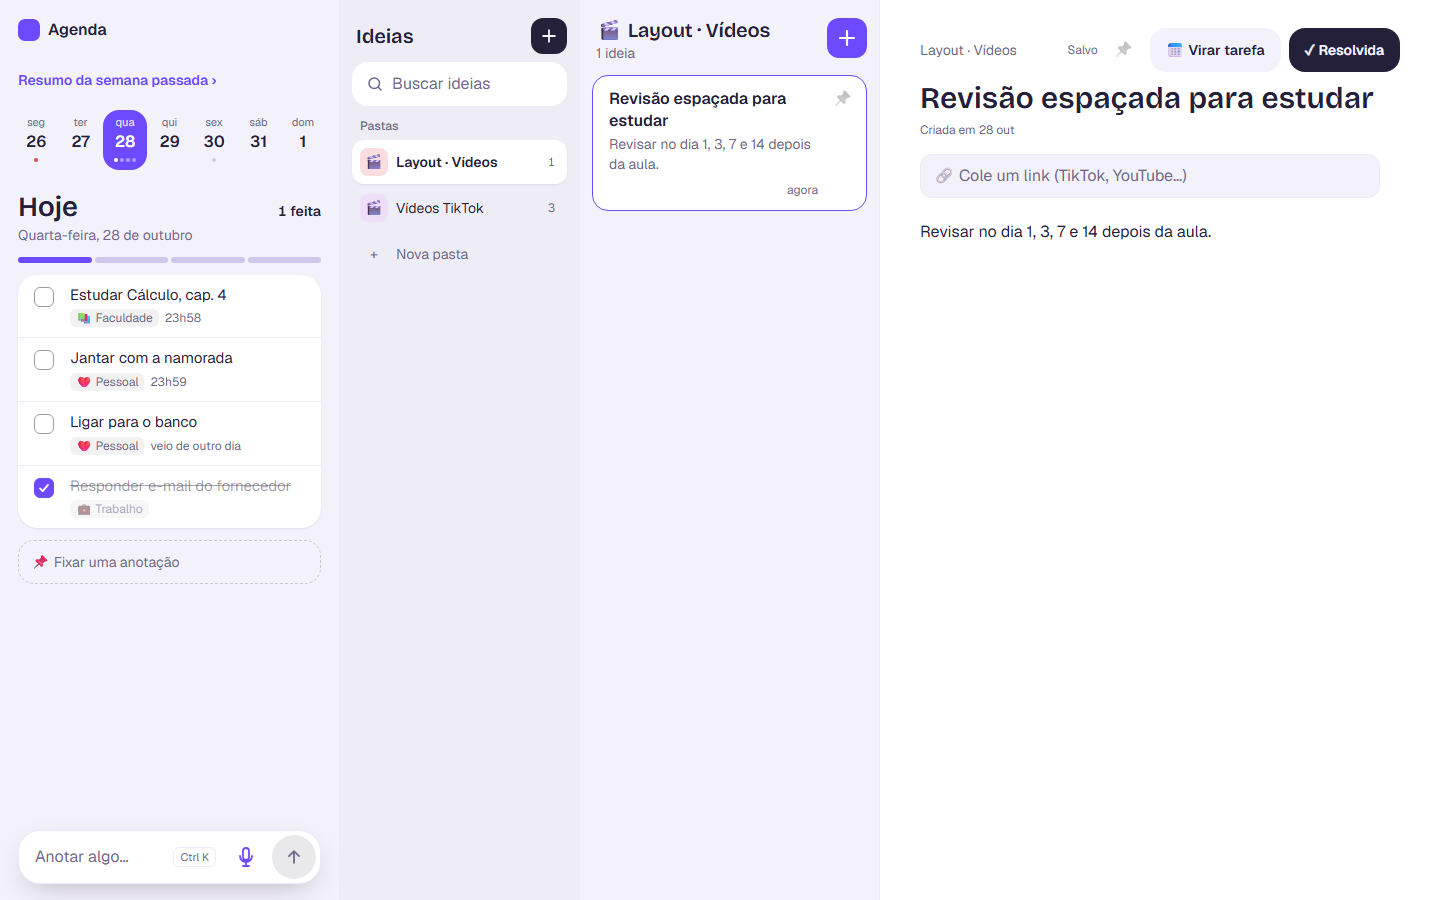
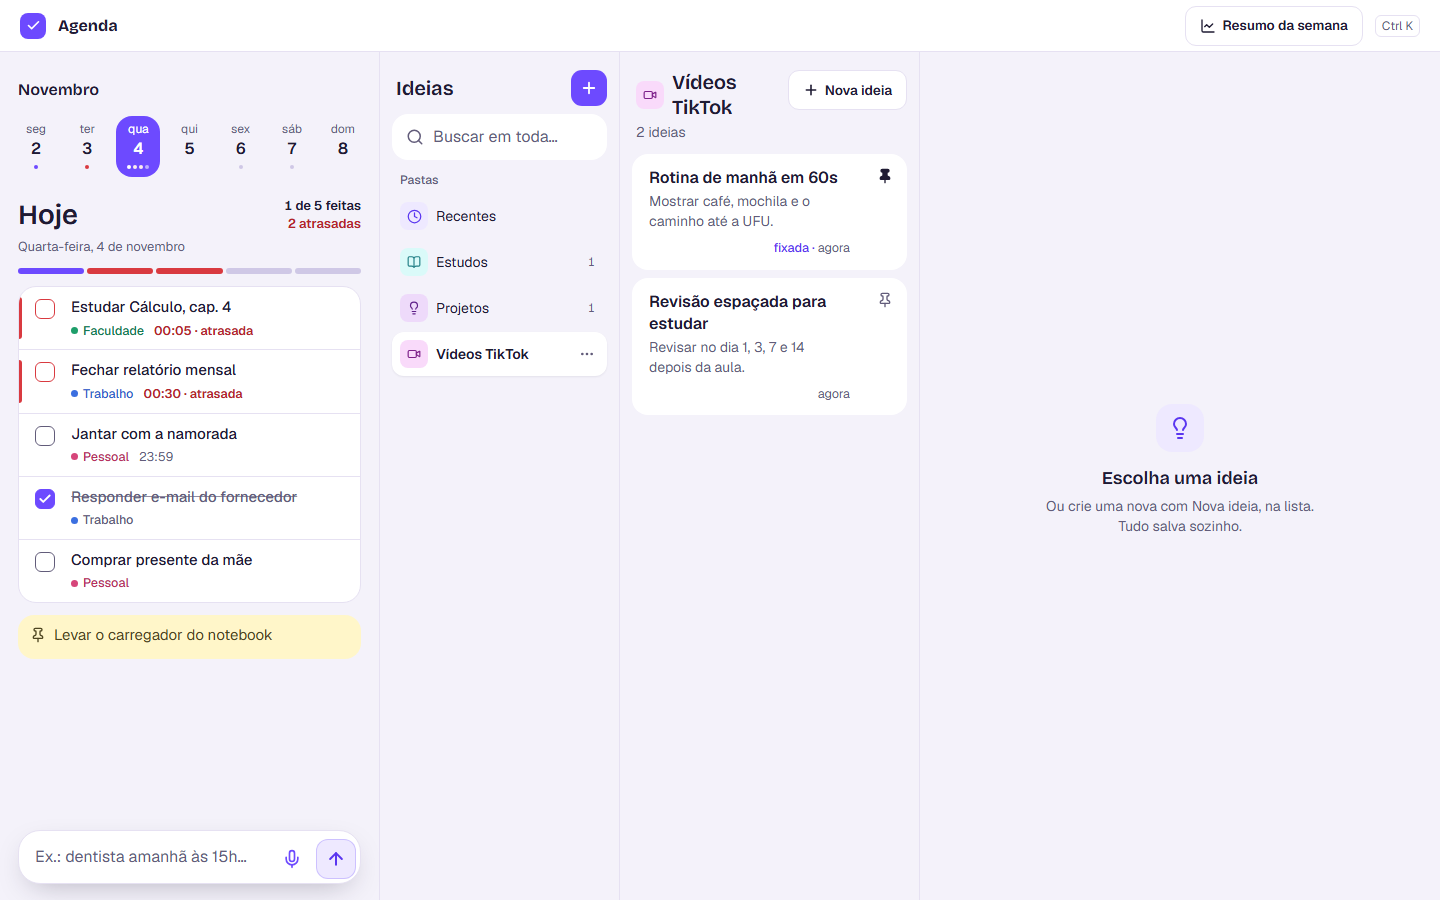
Atualiza capturas de tela do README

diff --git a/README.md b/README.md
@@ -5,7 +5,7 @@ Aplicativo web pessoal para organizar a semana e o dia a dia. Reúne tarefas do 
 <p align="center">
   <img src="docs/screenshots/hoje.png" width="230" alt="Tela Hoje">
   <img src="docs/screenshots/ideias.png" width="230" alt="Tela Ideias">
-  <img src="docs/screenshots/resumo-semanal.png" width="230" alt="Resumo semanal">
+  <img src="docs/screenshots/captura.png" width="230" alt="Captura com confirmação">
 </p>
 
 <p align="center">
